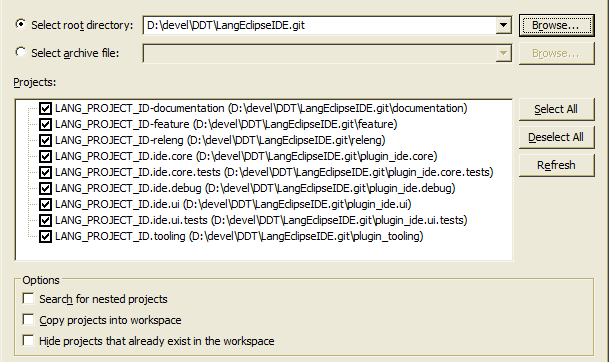
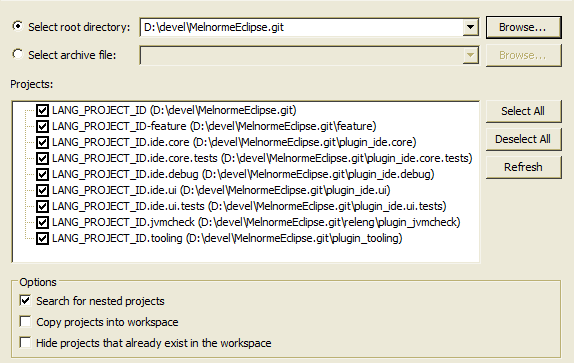
Updated readme with note about nested projects.

Changed region(s): [[0.0, 0.0, 1.0, 1.0]]

diff --git a/README.md b/README.md
@@ -4,18 +4,19 @@ Developers Guide
 #### Setting up the development environment:
  * You need [Eclipse PDE](https://eclipse.org/pde/) to develop Eclipse plugins. Download and start it.
  * Clone the Git repository.
- * In Eclipse, click "File / Import... ", and then "General / Existing projects into workspace". Select the Git repository folder as the "root directory", and select all the Eclipse projects that show up. Click finish to import those projects.
+ * In Eclipse, click "File / Import... ", and then "General / Existing projects into workspace". Select the Git repository folder as the "root directory", enable "Search for nested projects", and select all the Eclipse projects that show up. Click finish to import those projects.
 <div align="center">
 <a><img src="documentation/README_images/ImportPluginProjects.png" /><a/> <br/>
-<sub><sup>Note: The actual project names will be different from those in the screenshot above.</sup></sub>
 </div>
- * Note: Java compiler settings will be automatically configured, since Eclipse compiler settings are stored in source version control.
+   * Note: The actual project names will be different from those in the screenshot above.
+   * Note: Java compiler settings will be automatically configured, since Eclipse compiler settings are stored in source version control.
  * Setup the target platform: Open the target platform file: `releng/target-platform/IDE.target` (You can use the Open Resource dialog to help find this file, press Ctrl-R and type `IDE.target` in the dialog). Then click "Set as Target Platform" once the file is opened, as seen here: 
 <div align="center">
 <a><img src="documentation/README_images/Set_As_Target_Platform.png" /><a/> 
 </div>
  * Build the workspace ( "Project / Build All"). Everything should build fine now, there should be no errors.
  * To start the IDE from your workspace: Open "Run / Run Configurations ...". Click on "Eclipse Application" to create a new launch for the plugins in your workspace. The default new configuration that is created should already be ready to be launched.
+ * **Additional tip:** Locate the `bin-maven` folder in the top-level project, open its Properties from the Project Explorer context menu, and mark that directory as "Derived" in the "Resources" property page. This will prevent those folder resources to appear in UI operations such as "Open Resource" for example. 
 
 #### Running the tests in Eclipse:
 
